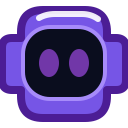
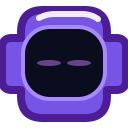
Make toolbar eyes blink distinctly and soften progress track

Changed region(s): [[0.2812, 0.375, 0.7188, 0.625]]

diff --git a/popup.css b/popup.css
@@ -1,4 +1,4 @@
-*{box-sizing:border-box}html,body{margin:0;width:276px;background:#132b52;font-family:-apple-system,BlinkMacSystemFont,"Segoe UI",sans-serif}#card{width:276px;padding:12px 14px 11px;border:1px solid rgba(255,255,255,.22);border-radius:14px;background:#132b52;color:#fff;overflow:hidden}#copy{height:34px;color:#7dd3fc}strong,#status{display:block}strong{margin-bottom:2px;font-size:13px;line-height:1.2}#status{font-size:12px;font-weight:500;line-height:1.3;white-space:nowrap;overflow:hidden;text-overflow:ellipsis}#scene{position:relative;height:76px;margin-top:7px;overflow:visible}#track{position:absolute;left:2px;right:2px;bottom:3px;height:5px;overflow:hidden;border-radius:999px;background:rgba(255,255,255,.14)}#bar{width:3%;height:100%;border-radius:inherit;background:linear-gradient(90deg,#25c7f7,#818cf8 58%,#a78bfa);box-shadow:0 0 10px rgba(129,140,248,.72);transition:width 180ms ease-out}#robot-position{position:absolute;top:6px;left:3%;width:56px;height:50px;transform:translateX(-3%);transition:left 320ms cubic-bezier(.22,1,.36,1),top 420ms cubic-bezier(.22,1,.36,1),transform 320ms cubic-bezier(.22,1,.36,1)}#robot-hover{position:absolute;inset:0;animation:hover 2.4s ease-in-out infinite}#robot{position:absolute;top:0;left:0;width:56px;filter:drop-shadow(0 4px 7px rgba(7,18,43,.38))}#plume{position:absolute;top:40px;left:22px;width:14px;height:9px;object-fit:fill;opacity:.88;filter:drop-shadow(0 0 4px rgba(139,92,246,.78))}#check{position:absolute;right:2px;bottom:21px;display:grid;place-items:center;width:22px;height:22px;border-radius:50%;background:#18a66f;box-shadow:0 0 0 3px rgba(52,211,153,.16),0 4px 12px rgba(3,80,55,.32);color:#fff;font-size:14px;font-weight:800;opacity:0;transform:scale(.72);transition:opacity 180ms,transform 260ms}#card.complete #copy{width:170px;color:#86efac}#card.complete #status{white-space:normal;display:-webkit-box;-webkit-box-orient:vertical;-webkit-line-clamp:2}#card.complete #bar{background:#34d399}#card.complete #check{opacity:1;transform:scale(1)}#card.complete #robot-hover{animation:complete-hover 1.1s ease-in-out infinite}#card.complete #robot{transform:scaleX(-1)}@keyframes hover{0%,100%{transform:translateY(-1px) rotate(-.35deg)}50%{transform:translateY(1.5px) rotate(.25deg)}}@keyframes complete-hover{0%,100%{transform:translateY(-1px)}50%{transform:translateY(-3px)}}
+*{box-sizing:border-box}html,body{margin:0;width:276px;background:#132b52;font-family:-apple-system,BlinkMacSystemFont,"Segoe UI",sans-serif}#card{width:276px;padding:12px 14px 11px;border:1px solid rgba(255,255,255,.22);border-radius:14px;background:#132b52;color:#fff;overflow:hidden}#copy{height:34px;color:#7dd3fc}strong,#status{display:block}strong{margin-bottom:2px;font-size:13px;line-height:1.2}#status{font-size:12px;font-weight:500;line-height:1.3;white-space:nowrap;overflow:hidden;text-overflow:ellipsis}#scene{position:relative;height:76px;margin-top:7px;overflow:visible}#track{position:absolute;left:2px;right:2px;bottom:3px;height:5px;overflow:hidden;border-radius:999px;background:rgba(255,255,255,.07)}#bar{width:3%;height:100%;border-radius:inherit;background:linear-gradient(90deg,#25c7f7,#818cf8 58%,#a78bfa);box-shadow:0 0 10px rgba(129,140,248,.72);transition:width 180ms ease-out}#robot-position{position:absolute;top:6px;left:3%;width:56px;height:50px;transform:translateX(-3%);transition:left 320ms cubic-bezier(.22,1,.36,1),top 420ms cubic-bezier(.22,1,.36,1),transform 320ms cubic-bezier(.22,1,.36,1)}#robot-hover{position:absolute;inset:0;animation:hover 2.4s ease-in-out infinite}#robot{position:absolute;top:0;left:0;width:56px;filter:drop-shadow(0 4px 7px rgba(7,18,43,.38))}#plume{position:absolute;top:40px;left:22px;width:14px;height:9px;object-fit:fill;opacity:.88;filter:drop-shadow(0 0 4px rgba(139,92,246,.78))}#check{position:absolute;right:2px;bottom:21px;display:grid;place-items:center;width:22px;height:22px;border-radius:50%;background:#18a66f;box-shadow:0 0 0 3px rgba(52,211,153,.16),0 4px 12px rgba(3,80,55,.32);color:#fff;font-size:14px;font-weight:800;opacity:0;transform:scale(.72);transition:opacity 180ms,transform 260ms}#card.complete #copy{width:170px;color:#86efac}#card.complete #status{white-space:normal;display:-webkit-box;-webkit-box-orient:vertical;-webkit-line-clamp:2}#card.complete #bar{background:#34d399}#card.complete #check{opacity:1;transform:scale(1)}#card.complete #robot-hover{animation:complete-hover 1.1s ease-in-out infinite}#card.complete #robot{transform:scaleX(-1)}@keyframes hover{0%,100%{transform:translateY(-1px) rotate(-.35deg)}50%{transform:translateY(1.5px) rotate(.25deg)}}@keyframes complete-hover{0%,100%{transform:translateY(-1px)}50%{transform:translateY(-3px)}}
 
 strong,#status{background:linear-gradient(90deg,#7dd3fc 0%,#818cf8 50%,#c4b5fd 100%);background-size:220% 100%;background-clip:text;-webkit-background-clip:text;-webkit-text-fill-color:transparent;animation:text-shimmer 4.8s ease-in-out infinite}
 #plume{top:39px;left:16.5px;width:23px;height:18px;opacity:.95;filter:drop-shadow(0 0 6px rgba(139,92,246,.9));animation:plume-pulse 1.5s ease-in-out infinite}

diff --git a/src/background.js b/src/background.js
@@ -14,7 +14,7 @@ const DEFAULT_ACTION_ICONS = {
   48: "icons/toolbar/mascot-glyph-48.png",
   128: "icons/toolbar/mascot-glyph-128.png",
 };
-const CAPTURING_ACTION_ICONS = [1, 2, 3].map((frame) => ({
+const CAPTURING_ACTION_ICONS = [1, 3].map((frame) => ({
   16: `icons/toolbar/mascot-capturing-${frame}-16.png`,
   32: `icons/toolbar/mascot-capturing-${frame}-32.png`,
   48: `icons/toolbar/mascot-capturing-${frame}-48.png`,
@@ -441,7 +441,7 @@ async function startToolbarProgress(tabId) {
       tabId,
       path: CAPTURING_ACTION_ICONS[toolbarAnimationFrame],
     }).catch(() => undefined);
-  }, 180);
+  }, 450);
 }
 
 async function finishToolbarProgress(tabId, succeeded, failureMessage) {

diff --git a/docs/TODO.md b/docs/TODO.md
@@ -5,7 +5,7 @@
 - Visually verify PageSweep 0.2.13 amber failure feedback and its 60-second inactivity fallback; background cancellation remains separate from popup feedback.
 
 - Verify PageSweep 0.2.12 on the same page starting at the top, middle, and bottom; capture scroll positions must remain contiguous and restore the original position.
-- Evaluate the higher-contrast, edge-filling robot visor glyph and its pulsing-eye toolbar animation in PageSweep 0.2.9.
+- Visually verify the distinct dim/bright toolbar-eye blink and fainter unfinished track in PageSweep 0.2.14.
 - Verify that the mascot and plume remain physically locked together throughout normal and completion hover in PageSweep 0.2.10.
 - Verify automatic popup dismissal after 1.7 seconds and inspect capture timing diagnostics in PageSweep 0.2.11; a slower 15-frame run was reported.
 
@@ -20,6 +20,8 @@
 - Nothing currently.
 
 ## Recently Done
+
+- Verify successful capture starting at the bottom of the page in PageSweep 0.2.13; user retest passed on 2026-09-16.
 
 - Approve the refined small-size cape silhouette; visual review passed on 2026-09-15.
 - Consolidate the approved mascot and persistent-popup work into the stable PageSweep 0.2.3 release on `main`.

diff --git a/docs/CHANGELOG.md b/docs/CHANGELOG.md
@@ -6,6 +6,8 @@ All notable changes to this project are documented here. The project uses semant
 
 ### Changed
 
+- Version 0.2.14 alternates visibly dim, narrow eyes with bright full-height eyes every 450 ms in the toolbar, and halves the unfinished progress track opacity.
+
 - Bumped the extension version to 0.2.9, completed the small-size cape refinement, removed the redundant numeric toolbar badge, and replaced the toolbar arrow with a higher-contrast, edge-filling transparent robot glyph whose larger eyes pulse through three brightness levels during capture while retaining the final success or error symbol.
 
 ### Fixed
